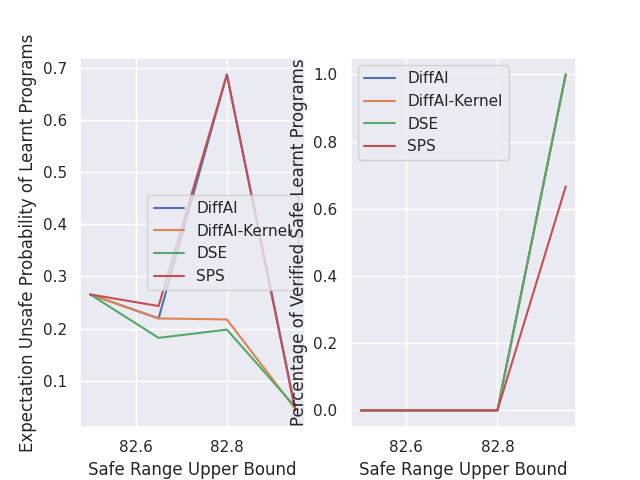
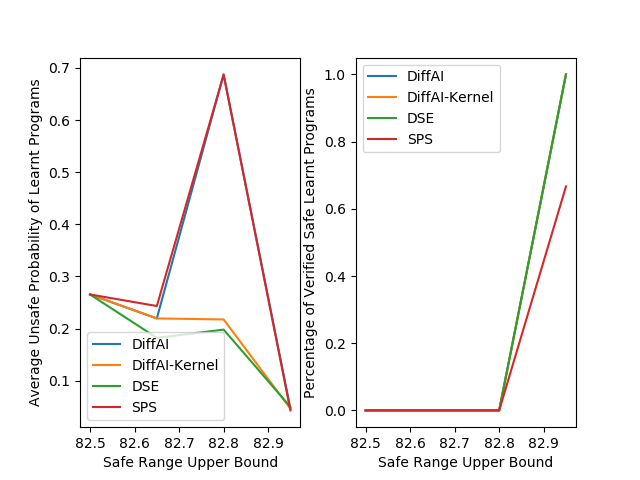
quick update

diff --git a/gpu_framework/plot_fig.py b/gpu_framework/plot_fig.py
@@ -210,8 +210,7 @@ def plot_vary_constraint(file):
 
 
 def plot_verification_result(result_dict, figure_name):
-    sns.set_theme()
-
+    # sns.set_theme()
     fig, (ax1, ax2) = plt.subplots(1, 2)
 
     for method in result_dict:
@@ -219,14 +218,15 @@ def plot_verification_result(result_dict, figure_name):
         y1_list = result_dict[method]['avg_verification_probability_list']
         y2_list = result_dict[method]['safe_percentage_probability_list']
         
-        sns.lineplot(x_list, y1_list, label=method, ax=ax1)
-        sns.lineplot(x_list, y2_list, label=method, ax=ax2)
+        sns.lineplot(x=x_list, y=y1_list, label=method, ax=ax1)
+        sns.lineplot(x=x_list, y=y2_list, label=method, ax=ax2)
     
     ax1.set_xlabel('Safe Range Upper Bound')
-    ax1.set_ylabel('Expectation Unsafe Probability of Learnt Programs')
+    ax1.set_ylabel('Average Unsafe Probability of Learnt Programs')
     ax2.set_xlabel('Safe Range Upper Bound')
     ax2.set_ylabel('Percentage of Verified Safe Learnt Programs')
 
+    plt.subplots_adjust(wspace = 0.25)
     plt.legend()
     plt.savefig(f"all_figures/{figure_name}.png")
     # plt.show()
@@ -269,8 +269,8 @@ def vary_safe_bound():
         # first expr
         # safe_range_upper_bound_list = np.arange(82.0, 83.0, 0.1).tolist()
         # PHI = 0.05 # unsafe probability
-        # safe_range_upper_bound_list = np.arange(82.5, 83.0, 0.15).tolist()
-        safe_range_upper_bound_list = np.arange(82.81, 82.999, 0.046).tolist()
+        safe_range_upper_bound_list = np.arange(82.5, 83.0, 0.15).tolist()
+        # safe_range_upper_bound_list = np.arange(82.81, 82.999, 0.046).tolist()
         PHI = 0.10
         # SAFE_RANGE = [53.0, 82.0]
         # SAFE_RANGE = [52.0, 83.0] # not that strict
@@ -317,6 +317,8 @@ def vary_safe_bound():
                 if len(tmp_avg_list) == 3:
                     # remove the maximum probability
                     avg_verification_probability = (sum(tmp_avg_list) - max(tmp_avg_list))/train_time
+                    # keep all the probability
+                    # avg_verification_probability = (sum(tmp_avg_list))/train_time
                     safe_percentage_probability = sum(tmp_safe_percentage_list) / train_time
                     avg_verification_probability_list.append(avg_verification_probability)
                     safe_percentage_probability_list.append(safe_percentage_probability)
@@ -334,7 +336,7 @@ def vary_safe_bound():
             all_result_f.write(f"{key}: {result_dict[method][key]}\n")
     all_result_f.close()
 
-    # plot_verification_result(result_dict, figure_name=f"thermostat_{lr}_{bs}_{num_epoch}_{train_size}_{num_components}_{l}_{b}_{nn_mode}_{module}_{n}_{save}_{SAFE_RANGE[0]}_{PHI}_{safe_range_upper_bound_list}")
+    plot_verification_result(result_dict, figure_name=f"thermostat_{lr}_{bs}_{num_epoch}_{train_size}_{num_components}_{l}_{b}_{nn_mode}_{module}_{n}_{save}_{SAFE_RANGE[0]}_{PHI}_{safe_range_upper_bound_list}")
 
 
 if __name__ == "__main__":
